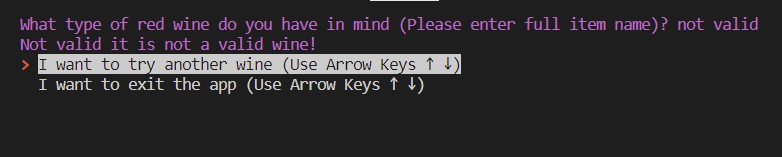
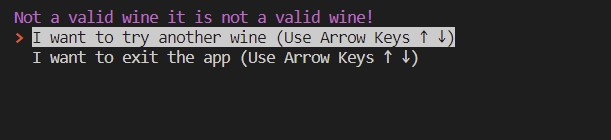
Error handling, Testing and Updated Readme added

Changed region(s): [[0.0, 0.0571, 0.9951, 0.6], [0.4664, 0.0, 0.5597, 0.0286]]

diff --git a/main.py b/main.py
@@ -479,6 +479,21 @@ wine_list = [
 
 Greetings.welcome()
 
+# The wine_qty_error_handling function receives a qty_message parameter with the result of the answer to the 
+# question "how many wines do you want to check?", and if the answer it is not an integer it keeps 
+# asking untill the user inputs an integer.
+
+def wine_qty_error_handling(qty_message):
+    clearing.clear()
+    input_number = None
+    while True:
+        try:
+            input_number = int(input(qty_message))
+            break
+        except:
+            clearing.clear()
+            print('must be an integer')
+            
 # The init function displays an input question for the user asking for a wine name.
 # It forces the first letter to be capitalized with the capitalize function.
 # Once the user enters an input, it is saved in the input_message variable and checked in the list
@@ -492,6 +507,7 @@ def init():
     is_wine_valid = user_wine.is_valid_wine()
     wine_validation(is_wine_valid, input_message)
 
+    
 # The build_menu function uses the py package simple_term_menu to create an interactive terminal menu 
 # and it holds two parameters, an options parameters that receives a variable from a chosen option, 
 # and the return_string parameter that is set as True by default.
@@ -519,8 +535,10 @@ def wine_validation(is_wine_valid, input_message):
         print(f"{input_message} goes well with the foods bellow, choose one for Recipe! (Use Arrow Keys ↑ ↓)")
         pair_list_iteration(input_message)
     else:
+        clearing.clear()
         print(f"{input_message} it is not a valid wine!")
         app_options()
+
 
 # The app_options function has a variable called options that holds two strings with questions, prompting the user to choose
 # betweeen leaving the app or chosing a different wine, an index variable calls the build_menu function and sends an options parameter
@@ -591,7 +609,7 @@ def pair_list_iteration(input_message):
 
             app_options()
 
-
+wine_qty_error_handling("How many wines do you want to check? ")
 init()
 
 

diff --git a/classes/test_recipe.py b/classes/test_recipe.py
@@ -1,0 +1,31 @@
+import pytest
+from classes.recipe import Recipe
+
+# The test_initial_recipe_value test function makes sure that the recipe list 
+# items are run properly within the class through the correct attributes to 
+# return the correct recipe values.
+ 
+def test_initial_recipe_value():
+    recipe_testing = Recipe("Gouda cheese", '''
+CHEESE BOARD: 
+Gouda cheese 
+Prosciutto 
+Walnuts
+
+''', "cheese")     
+    assert recipe_testing.name == "Gouda cheese"
+    assert recipe_testing.description == '''
+CHEESE BOARD: 
+Gouda cheese 
+Prosciutto 
+Walnuts
+
+'''
+    assert recipe_testing.recipe_type == "cheese"
+
+# The test_no_recipe_value test function raises an exception which means that the next block of code will be tested and if no exception
+# is raised between recipe and Recipe() the test passes, otherwise it fails. 
+
+def test_no_recipe_value():
+    with pytest.raises(Exception) as e_info:
+        recipe = Recipe()  

diff --git a/classes/test_pair.py b/classes/test_pair.py
@@ -1,0 +1,20 @@
+import pytest
+from classes.pair import Pair
+
+# The test_initial_pair_value test function makes sure that the pair list 
+# items are run properly within the class through the correct attributes 
+# to return the correct pair values.
+ 
+def test_initial_pair_value():
+    pair_testing = Pair("Cabernet sauvignon", "Roast beef", "Gouda cheese", "Plums")     
+    assert pair_testing.wine == "Cabernet sauvignon"
+    assert pair_testing.main_dish == "Roast beef"
+    assert pair_testing.cheese == "Gouda cheese"
+    assert pair_testing.fruit == "Plums"
+
+# The test_no_pair_value test function raises an exception which means that the next block of code will be tested and if no exception
+# is raised between pair and Pair() the test passes, otherwise it fails. 
+
+def test_no_pair_value():
+    with pytest.raises(Exception) as e_info:
+        pair = Pair()   

diff --git a/README.md b/README.md
@@ -16,7 +16,7 @@ Click [here](https://youtu.be/qFXFjf9qJko) To open my Youtube video showing the 
 
 #### **What problem does it solve?**
 
-- It allows the user to aquire knowledge about the different types of wine and the foods that goes with it.
+- It allows the user to acquire knowledge about the different types of wine and the foods that goes with it.
 
 #### **what is the main goal?**
 
@@ -65,21 +65,6 @@ Click [here](https://peps.python.org/pep-0008/) To open the link to PEP 8 – St
   if a string is returned the return_string parameter is set as True and a list of menu options coming from another function is shown, 
   if it is false it returns one item from the menu.
 
-#### **wine_validation function(Error handling, it handles an input different then the available in the list of wines):**
-
-- The wine_validation function receives the is_wine_valid, input_message parameters and if the Boolean of the is_wine_valid equals to 
-  True it returns a message with the wine name alongside the pair_list_iteration showing three options of food that pair with that wine 
-  to be chosen.
-  if the Boolean of the is_wine_valid equals to False, it returns the input_message and an it is not a valid wine message, alongside the 
-  app_options function that prompts the user to choose between 2 options, to either try another wine or leave the app.
-
-#### **app_options function(Error Handling, it gives the user options if the input was invalid):**
-
-- The app_options function has a variable called options that holds two strings with questions, prompting the user to choose
-  betweeen leaving the app or chosing a different wine, an index variable calls the build_menu function and sends an options parameter
-  and a boolean False returning the two options as prompts to be selected, if he chooses the option to try another wine the init function 
-  is called again, if he chooses to leave the app, the end method is called prompting a goodbye message.
-
 #### **pair_list_iteration function:**
 
 - The pair_list_iteration function is the main logic behind the app and it is where the input 
@@ -105,38 +90,123 @@ Click [here](https://peps.python.org/pep-0008/) To open the link to PEP 8 – St
 
 ------
 
+# **Error Handling Functions:**
+
+#### **wine_qty_error_handling**
+- The wine_qty_error_handling function receives a qty_message parameter with the user input that answers the question "how many wines do you want to check?", it also uses a while loop and try/except statements, if the answer it is not an integer it keeps asking untill the user inputs an integer.
+
+#### **wine_validation function(Error handling, it handles an input different then the available in the list of wines):**
+
+- The wine_validation function receives the is_wine_valid, input_message parameters and if the Boolean of the is_wine_valid equals to 
+  True it returns a message with the wine name alongside the pair_list_iteration showing three options of food that pair with that wine 
+  to be chosen.
+  if the Boolean of the is_wine_valid equals to False, it returns the input_message and an it is not a valid wine message, alongside the 
+  app_options function that prompts the user to choose between 2 options, to either try another wine or leave the app.
+
+#### **app_options function(Error Handling, it gives the user options if the input was invalid):**
+
+- The app_options function has a variable called options that holds two strings with questions, prompting the user to choose
+  betweeen leaving the app or chosing a different wine, an index variable calls the build_menu function and sends an options parameter
+  and a boolean False returning the two options as prompts to be selected, if he chooses the option to try another wine the init function 
+  is called again, if he chooses to leave the app, the end method is called prompting a goodbye message.
+
+------
+
+# **Testing - Automated unit testing with pytest**
+
+#### **test_initial_pair_value**
+- The test_initial_pair_value test function makes sure that the pair list 
+  items are run properly within the class through the correct attributes 
+  to return the correct pair values.
+  pytest package was installed, the Pair class was imported.
+  This test was run with the command: 
+  pytest classes/test_pair.py
+  
+![test_initial_pair_value](./images/test_initial_pair_value.jpg)
+
+#### **test_no_pair_value**
+- The test_no_pair_value test function raises an exception which means that 
+  the next block of code will be tested and if no exception is raised between 
+  pair and Pair() the test passes, otherwise it fails.
+  pytest package was installed, the Pair class was imported.
+  This test was run with the command: 
+  pytest classes/test_pair.py 
+
+![test_no_pair_value](./images/test_no_pair_value.jpg)
+
+#### **test_pair**
+- The test_pair program functions run together.
+  pytest package was installed, the Pair class was imported.
+  This test was run with the command: 
+  pytest classes/test_pair.py
+
+![test_pair](./images/test_pair.jpg)
+
+#### **test_initial_recipe_value**
+- The test_initial_recipe_value test function makes sure that the recipe list 
+  items are run properly within the class through the correct attributes to 
+  return the correct recipe values.
+  pytest package was installed, the Recipe class was imported.
+  This test was run with the command: 
+  pytest classes/test_recipe.py 
+
+![test_initial_recipe_value](./images/test_initial_recipe_value.jpg)
+
+#### **test_no_recipe_value**
+- The test_no_recipe_value test function raises an exception which means that the next block of code will be tested and if no exception
+  is raised between recipe and Recipe() the test passes, otherwise it fails.
+  pytest package was installed, the Recipe class was imported.
+  This test was run with the command: 
+  pytest classes/test_recipe.py 
+
+![test_no_recipe_value](./images/test_no_recipe_value.jpg)
+
+#### **test_recipe**
+- The test_recipe program functions run together.
+  pytest package was installed, the Recipe class was imported.
+  This test was run with the command: 
+  pytest classes/test_recipe.py
+
+![test_recipe](./images/test_recipe.jpg)
+
+------
+
 # **A General break down of the app's functionalities:**
 
 ### **1. Welcome method welcomes the user and prompts the user to press enter to start.**
 
 ![Welcome](./images/welcome.jpg)
 
-### **2. init function asks for a user input with the name of the wine:**
+### **2. wine_qty_error_handling function asks for a number input with the quantity of wines to be searched:**
+
+![wine_qty_error_handling](./images/wine_qty_error_handling.jpg)
+
+### **3. init function asks for a user input with the name of the wine:**
 
 ![What_type_of_wine](./images/what_type_of_wine.jpg)
 
-### **3. The class method is_valid_wine checks to see if the user input is available in the list of __available__wines, returning a True or False Boolean.**
-### **4. If the is_valid_wine is True the app returns a list with options of foods that pair with that wine.**
+### **4. The class method is_valid_wine checks to see if the user input is available in the list of __available__wines, returning a True or False Boolean.**
+### **5. If the is_valid_wine is True the app returns a list with options of foods that pair with that wine.**
 
 ![Foods](./images/foods.jpg)
 
 
-### **5. If the is_valid_wine is False the app returns app_options function with a list with 2 options asking if the user wants to try a different wine or exit the app.**
+### **6. If the is_valid_wine is False the app returns app_options function with a list with 2 options asking if the user wants to try a different wine or exit the app.**
 
 ![Not_valid](./images/not_valid.jpg)
 
-### **6. Once the user picks a food option from the list, the app then checks if the item name matches the selected item and it returns a recipe for that item.**
-### **7. Then the function app_options presents a list with 2 options asking if the user wants to try a different wine or exit the app.**
+### **7. Once the user picks a food option from the list, the app then checks if the item name matches the selected item and it returns a recipe for that item.**
+### **8. Then the function app_options presents a list with 2 options asking if the user wants to try a different wine or exit the app.**
 
 ![recipe_cowsay](./images/recipe_cowsay.jpg)
 
 
-### **8. When the user chooses to try another wine the init function runs again.**
-### **9. When the user chooses to exit the app an ASCII file with a bottle of wine and glasses is shown on the Screen with a thank you and a do not drink and drive message.**
+### **9. When the user chooses to try another wine the init function runs again.**
+### **10. When the user chooses to exit the app an ASCII file with a bottle of wine and glasses is shown on the Screen with a thank you and a do not drink and drive message.**
 
 ![End](./images/end.jpg)
 
-### **10. The Python packages used in this application are:**
+### **11. The Python packages used in this application are:**
 
 - Simple_term_menu:
     It creates an interactive menu in the terminal with the option to use arrow keys as selectors.
@@ -149,6 +219,9 @@ Click [here](https://peps.python.org/pep-0008/) To open the link to PEP 8 – St
 
 - Colorterminal
     it adds collor to the terminal items.
+
+- Pytest
+    Used for testing.
 
 # **Flow Chart**
 
